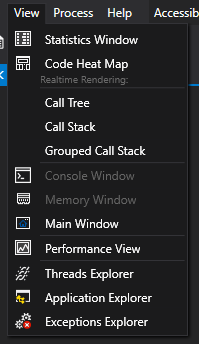
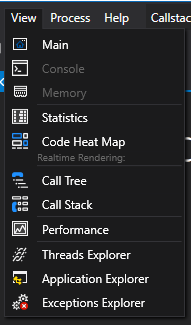
Update 'View Menu' and 'Realtime Rendering'-Toolbar

diff --git a/_docs/views/ApplicationInstanceDockWindow/MenuBar.md b/_docs/views/ApplicationInstanceDockWindow/MenuBar.md
@@ -30,8 +30,17 @@ Shutsdown the [Code Glass Client](../../features/CodeGlassClient.md)
 
 ## View Menu
 ![assets/img/ApplicationInstanceWindow/ViewMenu.png](../../../assets/img/ApplicationInstanceWindow/ViewMenu.png)
-### Statistics Window
-Opens [Statistics Window](StatisticsWindow.md) in a new tab or brings it to the foreground   
+### Main
+Opens the [Main](MainWindow.md) window in a new tab or brings the tab to the foreground   
+
+### Console
+See [Roadmap - Remote Console](../../Roadmap/RemoteConsole.md)
+
+### Memory
+See [Roadmap - MemoryProfiler](../../Roadmap/MemoryProfiler.md)
+
+### Statistics
+Opens the [Statistics](StatisticsWindow.md) window in a new tab or brings it to the foreground   
 
 ### Code Heat Map
 This button opens a [Code Heat Map](CodeHeatMap.md) in a new tab.
@@ -39,25 +48,11 @@ This button opens a [Code Heat Map](CodeHeatMap.md) in a new tab.
 ### Realtime Call Tree Rendering
 This button opens the [Realtime Call Tree Rendering](CallTreeRendering.md) in a new tab.
 
-
 ### Realtime Call Stack Rendering
 This button opens the [Realtime Call Stack Rendering](CallStackRendering.md) in a new tab.
 
-
-### Realtime Grouped Call Stack Rendering
-This button opens the [Realtime Grouped Call Stack Rendering](GroupedCallStackRendering.md) in a new tab.
-
-### Console Window
-See [Roadmap - Remote Console](../../Roadmap/RemoteConsole.md)
-
-### Memory Window
-See [Roadmap - MemoryProfiler](../../Roadmap/MemoryProfiler.md)
-
-### Main Window
-Opens the [Main Window](MainWindow.md) in a new tab or brings the tab to the foreground   
-
-### Performance View
-Opens the [Performance view](PerformanceView.md) in a new tool window or brings it to the foreground   
+### Performance
+Opens the [Performance](PerformanceView.md) view in a new tool window or brings it to the foreground   
 
 ### Thread Explorer
 Opens the [Thread Explorer](ThreadExplorer.md) in a new tool window or brings it to the foreground   

diff --git a/_docs/views/ApplicationInstanceDockWindow/Toolbar.md b/_docs/views/ApplicationInstanceDockWindow/Toolbar.md
@@ -44,9 +44,9 @@ For more information see [Feature - Application Instance Execution Control](../.
 ![assets/img/ApplicationInstanceWindow/ToolbarRendering.png](../../../assets/img/ApplicationInstanceWindow/ToolbarRendering.png)
 
 - Opens the [Code Heat Map](CodeHeatMap.md) in a new tab.
-- Opens the [Call Tree Rendering](CallTreeRendering.md) in a new tab.
-- Opens the [Call Stack Rendering](CallStackRendering.md) in a new tab.
-- Opens the [Grouped Call Stack Rendering](GroupedCallStackRendering.md) in a new tab.
+- Opens the [Call Tree](CallTreeRendering.md) in a new tab.
+- Opens the [Call Stack](CallStackRendering.md) in a new tab.
+<!-- - Opens the [Grouped Call Stack Rendering](GroupedCallStackRendering.md) in a new tab. -->
 
 For more information see [Feature - Realtime Rendering](../../features/RealtimeRendering.md)
 # See Also:
